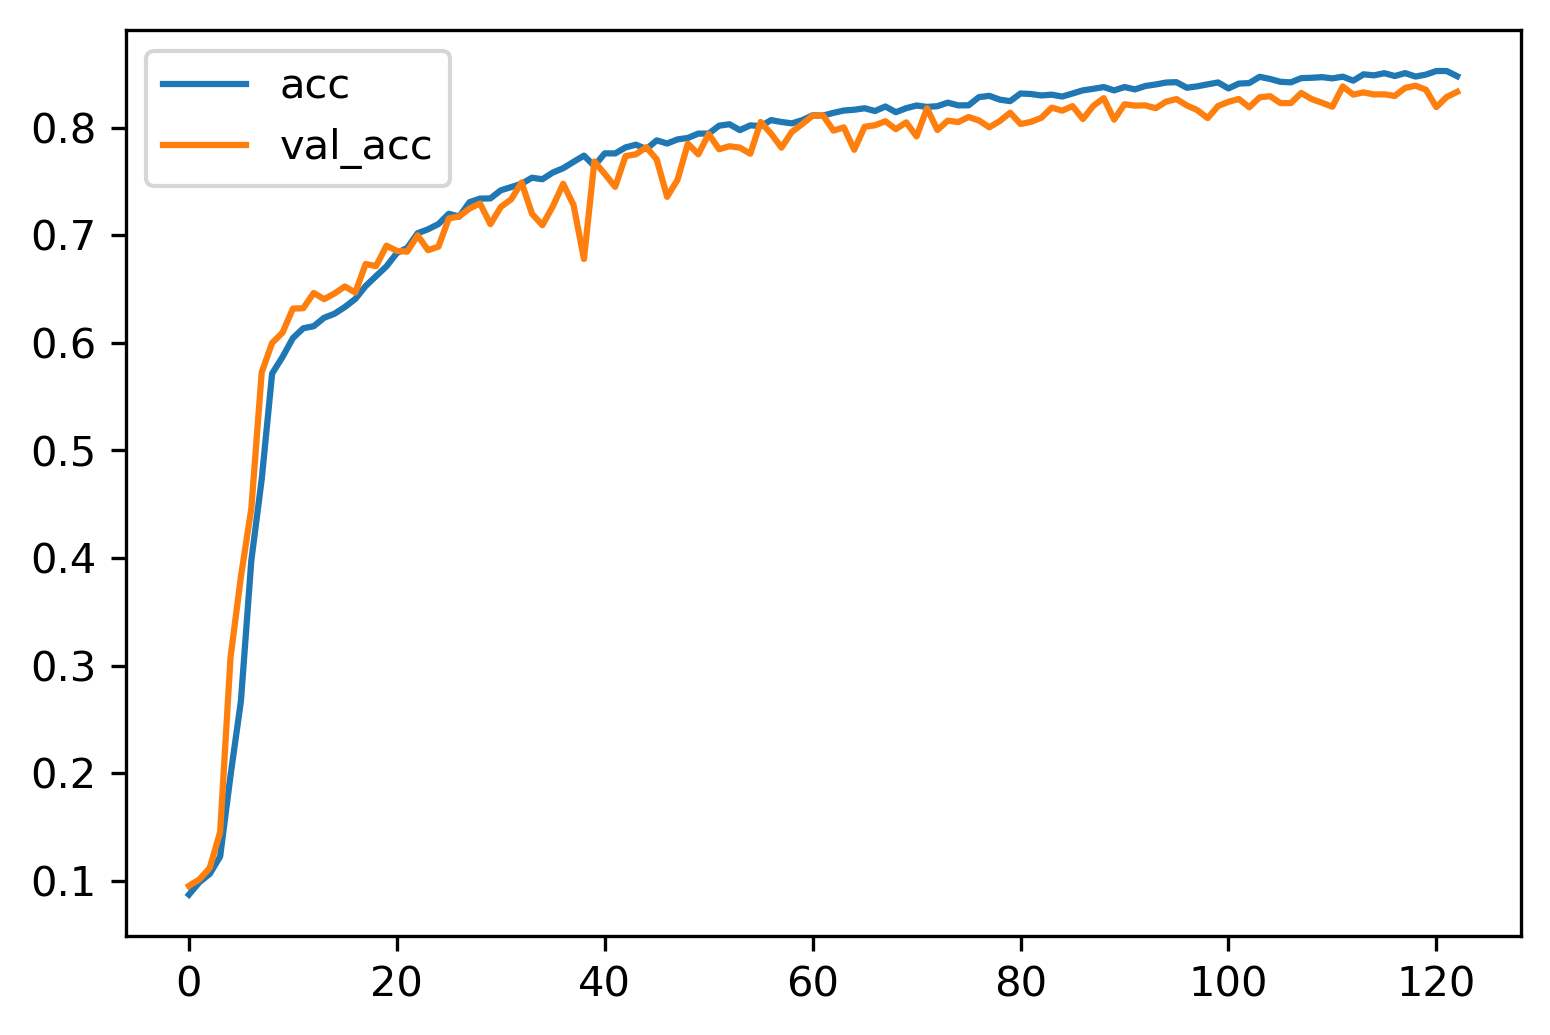
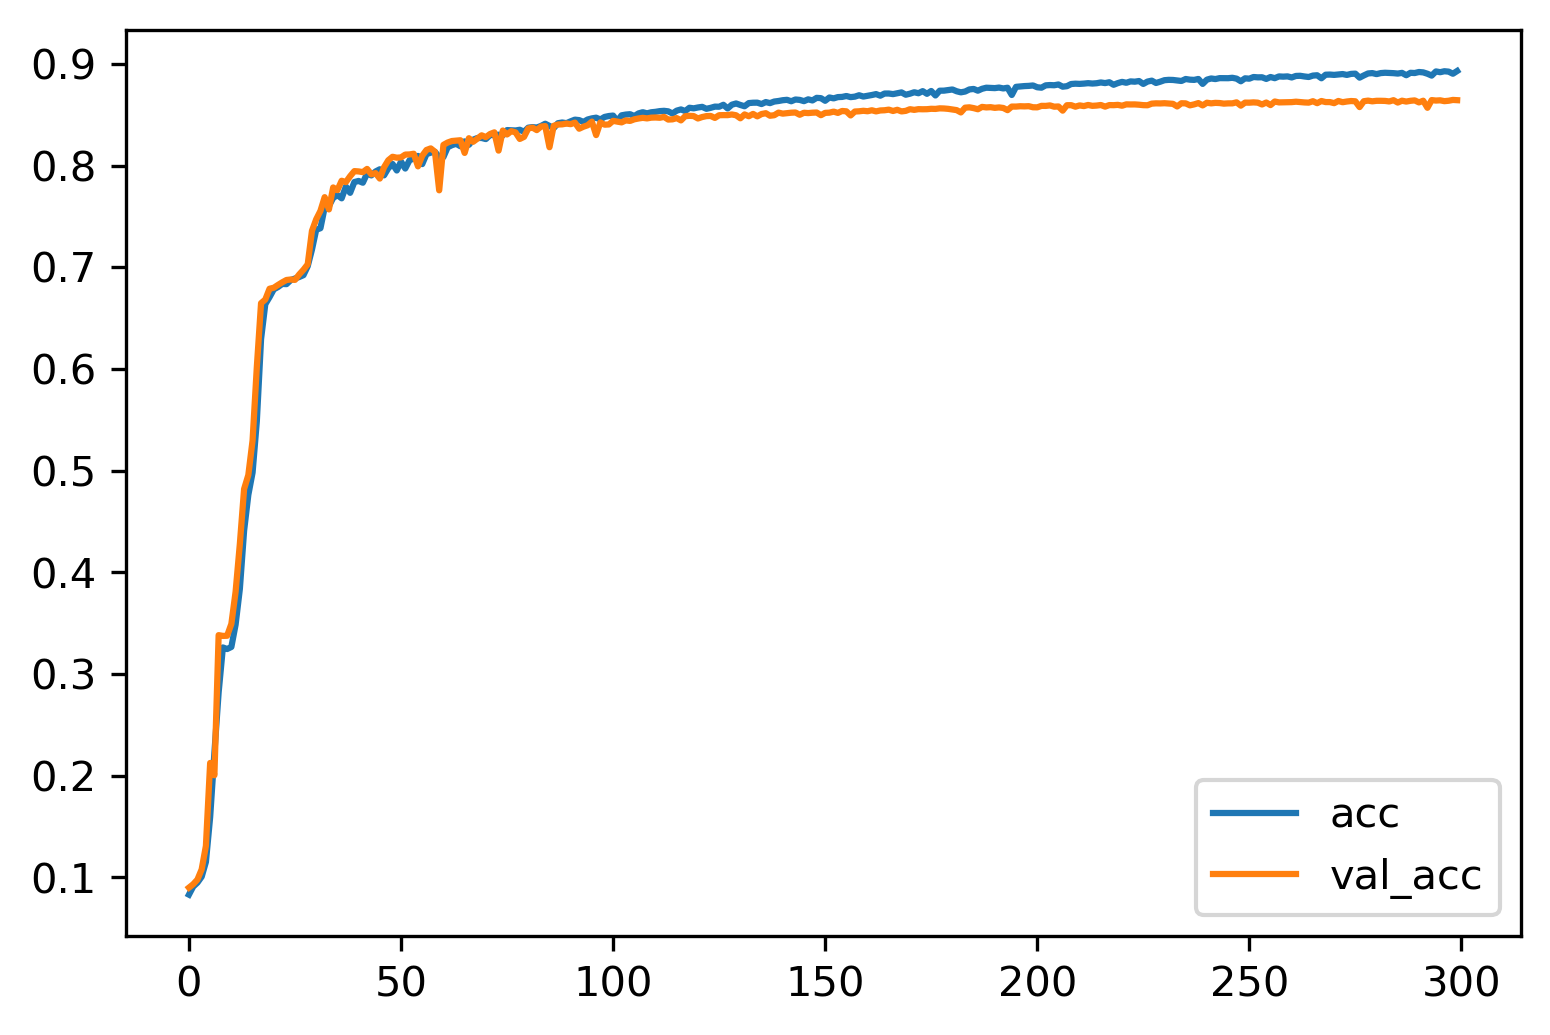
更新最原始的FCN实验和笔记

diff --git a/using FCN  on dataset1 experiments notes.md b/using FCN  on dataset1 experiments notes.md
@@ -17,46 +17,70 @@
 说明:最初的实验版本,使用FCN8,训练dataset1,图像大小resize为224*224,类别有12类,优化器使用sgd,损失函数使用categorical_crossentropy,测量方式使用accuracy
 
 ## 损失和精度 
-其中训练和验证loss值均在0.5附近,且训练和验证losss下降曲线非常接近,可能是由于过拟合的缘故
 
 <center>
-<img src=./image/loss_val_loss.png alt="训练损失函数和验证损失函数"  width="80%" height="80%" />        
+<img src=./image/FCN-dataset1-loss_val_loss.png alt="训练损失函数和验证损失函数"  width="80%" height="80%" />        
 
 训练损失函数和验证损失函数
 </center>
-而对于训练精度和验证精度其实和loss是差不多的,有可能训练批数还不太够,这里只训练了200个epochs   
+
+
 <center>
-<img src=./image/acc_val_acc.png alt="训练精度和验证精度"  width="80%" height="80%" />        
+<img src=./image/FCN-dataset1-acc_val_acc.png alt="训练精度和验证精度"  width="80%" height="80%" />        
 
 训练精度和验证精度
 </center>
 
 ## IoU度量标准  
-训练的平均IoU为0.418,而原作者为0.438,略低于原作者.
->class 00: #TP=409327, #FP= 48078, #FN=10513, IoU=0.875  
-class 01: #TP=660072, #FP= 71314, #FN=66244, IoU=0.828    
-class 02: #TP=     6, #FP=    96, #FN=29955, IoU=0.000  
-class 03: #TP=845554, #FP= 72664, #FN=21910, IoU=0.899  
-class 04: #TP= 99666, #FP= 31304, #FN=43805, IoU=0.570  
-class 05: #TP=232939, #FP= 77505, #FN=24120, IoU=0.696  
-class 06: #TP=  2094, #FP=  2116, #FN=27849, IoU=0.065  
-class 07: #TP= 18466, #FP= 17340, #FN=13737, IoU=0.373  
-class 08: #TP=157664, #FP= 60566, #FN=18535, IoU=0.666  
-class 09: #TP=   895, #FP=  2190, #FN=19133, IoU=0.040    
-class 10: #TP=     0, #FP=     0, #FN=11606, IoU=0.000   
-class 11: #TP=     0, #FP=     0, #FN=95766, IoU=0.000  
-\________________  
-Mean IoU: 0.418
+.
+平均IoU为0.506,原作者为0.438,但是需要指出的是,该结果是通过对训练集划分0.15的比例为验证集,然后在56张图片的验证集上得到的0.506的mIoU,并不是直接在测试集上得到的mIoU
+>class 00: #TP=405776, #FP= 33413, #FN=14064, IoU=0.895  
+class 01: #TP=698022, #FP= 81974, #FN=28294, IoU=0.864  
+class 02: #TP=     4, #FP=    43, #FN=29957, IoU=0.000  
+class 03: #TP=837840, #FP= 25016, #FN=29624, IoU=0.939  
+class 04: #TP=114181, #FP= 27535, #FN=29290, IoU=0.668  
+class 05: #TP=230089, #FP= 49782, #FN=26970, IoU=0.750  
+class 06: #TP=  5146, #FP=  2793, #FN=24797, IoU=0.157  
+class 07: #TP= 18735, #FP=  9084, #FN=13468, IoU=0.454  
+class 08: #TP=155033, #FP= 29668, #FN=21166, IoU=0.753  
+class 09: #TP=   746, #FP=   997, #FN=19282, IoU=0.035  
+class 10: #TP=   162, #FP=   203, #FN=11444, IoU=0.014  
+class 11: #TP= 62835, #FP= 20779, #FN=32931, IoU=0.539  
+\_________________  
+Mean IoU: 0.506  
 
-这里的class10和class11可能还有点问题,和[原作者的实验](https://fairyonice.github.io/Learn-about-Fully-Convolutional-Networks-for-semantic-segmentation.html#Visualize-the-model-performance)的区别有点大.
+下方为在101张测试集上得到的mIoU数据,平均mIoU为0.317,与验证集有较大的差距
+>class 00: #TP=739172, #FP= 38429, #FN=31249, IoU=0.914
+class 01: #TP=1770662, #FP=126336, #FN=585376, IoU=0.713  
+class 02: #TP=    21, #FP=   442, #FN=32312, IoU=0.001  
+class 03: #TP=649511, #FP=374831, #FN=36582, IoU=0.612  
+class 04: #TP=134582, #FP=190450, #FN=172959, IoU=0.270  
+class 05: #TP=285900, #FP= 69239, #FN=19126, IoU=0.764  
+class 06: #TP= 15363, #FP= 12445, #FN=69905, IoU=0.157  
+class 07: #TP= 10486, #FP= 17455, #FN=29703, IoU=0.182  
+class 08: #TP= 43750, #FP=344540, #FN=20945, IoU=0.107  
+class 09: #TP=   918, #FP=  3643, #FN=58233, IoU=0.015  
+class 10: #TP=   965, #FP=  1010, #FN=271612, IoU=0.004  
+class 11: #TP= 19293, #FP=218333, #FN=69151, IoU=0.063  
+\_________________  
+Mean IoU: 0.317  
+
+
 
 ## 实验效果
-精细度还是不够好
+此为验证集的实验效果,看起来还不错 
 <img src=./image/seg_example_0.png alt="分割示例0"  />        
 <img src=./image/seg_example_1.png alt="分割示例1"  />  
 <img src=./image/seg_example_2.png alt="分割示例2"  />  
 </center>
 
+
+扩展到测试集后,效果就不怎么好了
+    <center> 
+<img src=./image/fcn-dataset1-test-seg_example_0.png alt="分割示例0"  />        
+<img src=./image/fcn-dataset1-test-seg_example_1.png alt="分割示例1"  />  
+<img src=./image/fcn-dataset1-test-seg_example_2.png alt="分割示例2"  />  
+</center>
 # 实验2
 ## 介绍
 实验运行脚本: FCN-dataset1-generator.py
@@ -65,40 +89,26 @@ Mean IoU: 0.418
 ## 损失和精度 
 从图中也可以看出损失降低到了0.5以下,而且训练损失和验证损失区别不大
 <center>
-<img src=./image/fcn-dataset1-generator-loss_val_loss.png alt="训练损失函数和验证损失函数"  width="80%" height="80%" />        
+<img src=./image/fcn-dataset1-loss_val_loss.png alt="训练损失函数和验证损失函数"  width="80%" height="80%" />        
 
 训练损失函数和验证损失函数
 </center>
 
 训练精度和验证精度几乎一致
 <center>
-<img src=./image/fcn-dataset1-generator-acc_val_acc.png alt="训练精度和验证精度"  width="80%" height="80%" />        
+<img src=./image/fcn-dataset1-acc_val_acc.png alt="训练精度和验证精度"  width="80%" height="80%" />        
 
 训练精度和验证精度
 </center>
 
 ## IoU度量标准 
-平均IoU为0.130
 
-
->class 00: #TP=  2244, #FP=  2273, #FN=792370, IoU=0.003  
-class 01: #TP=2218862, #FP=1533372, #FN=74457, IoU=0.580   
-class 02: #TP=     0, #FP=    17, #FN=34286, IoU=0.000  
-class 03: #TP=170441, #FP=  6488, #FN=529738, IoU=0.241  
-class 04: #TP=135559, #FP=279023, #FN=153502, IoU=0.239  
-class 05: #TP=126385, #FP= 20534, #FN=213285, IoU=0.351  
-class 06: #TP=  2718, #FP=  4021, #FN=89392, IoU=0.028  
-class 07: #TP=    51, #FP=   898, #FN=49372, IoU=0.001  
-class 08: #TP= 34186, #FP=394291, #FN=31247, IoU=0.074  
-class 09: #TP=  1155, #FP= 17563, #FN=63896, IoU=0.014  
-class 10: #TP=   164, #FP=    77, #FN=252605, IoU=0.001  
-class 11: #TP=  4695, #FP=112759, #FN=87166, IoU=0.023  
-\_________________  
-Mean IoU: 0.130
 
 ## 实验效果
 
-<img src=./image/fcn-dataset1-generator-seg_example_0.png alt="分割示例0"  />        
-<img src=./image/fcn-dataset1-generator-seg_example_1.png alt="分割示例1"  />  
-<img src=./image/fcn-dataset1-generator-seg_example_2.png alt="分割示例2"  />  
+    <center> 
+<img src=./image/FCN-dataset1-seg_example_0.png.png alt="分割示例0"  />        
+<img src=./image/fcn-dataset1-seg_example_1.png alt="分割示例1"  />  
+<img src=./image/fcn-dataset1-seg_example_2.png alt="分割示例2"  />  
 </center>
+
